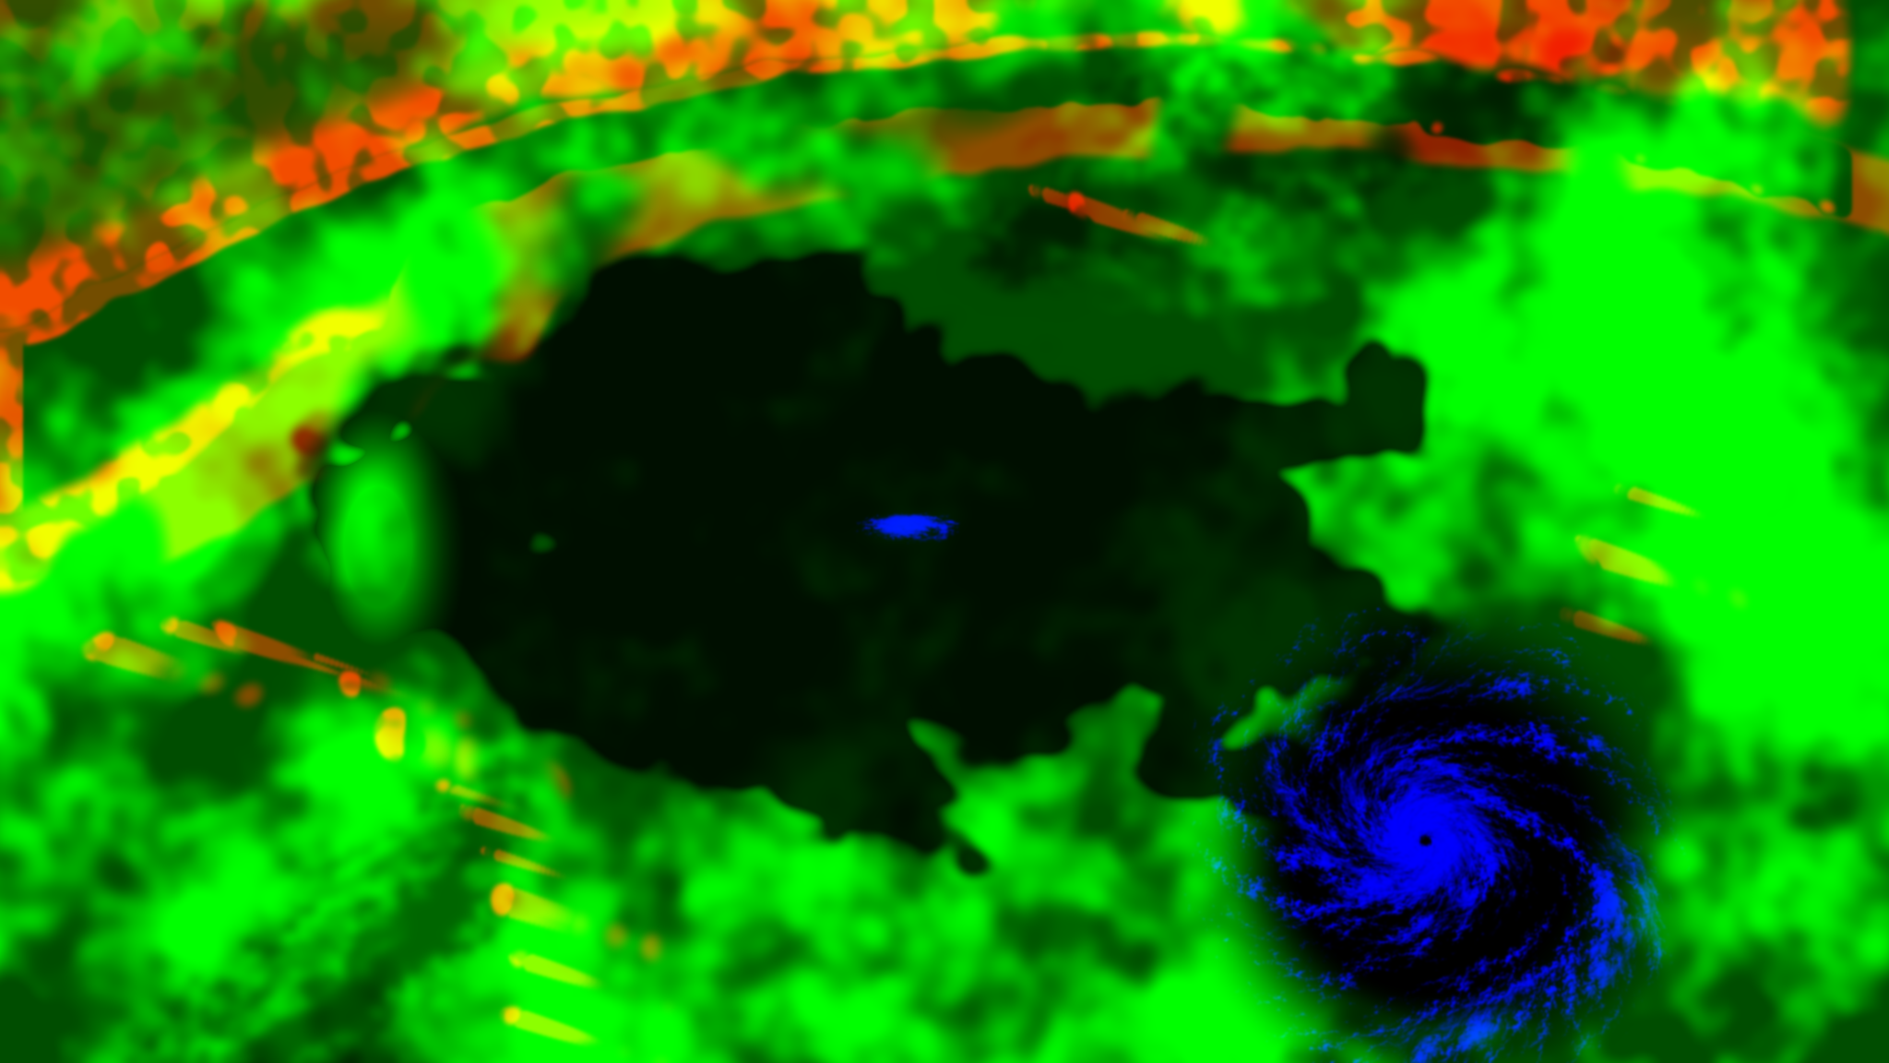
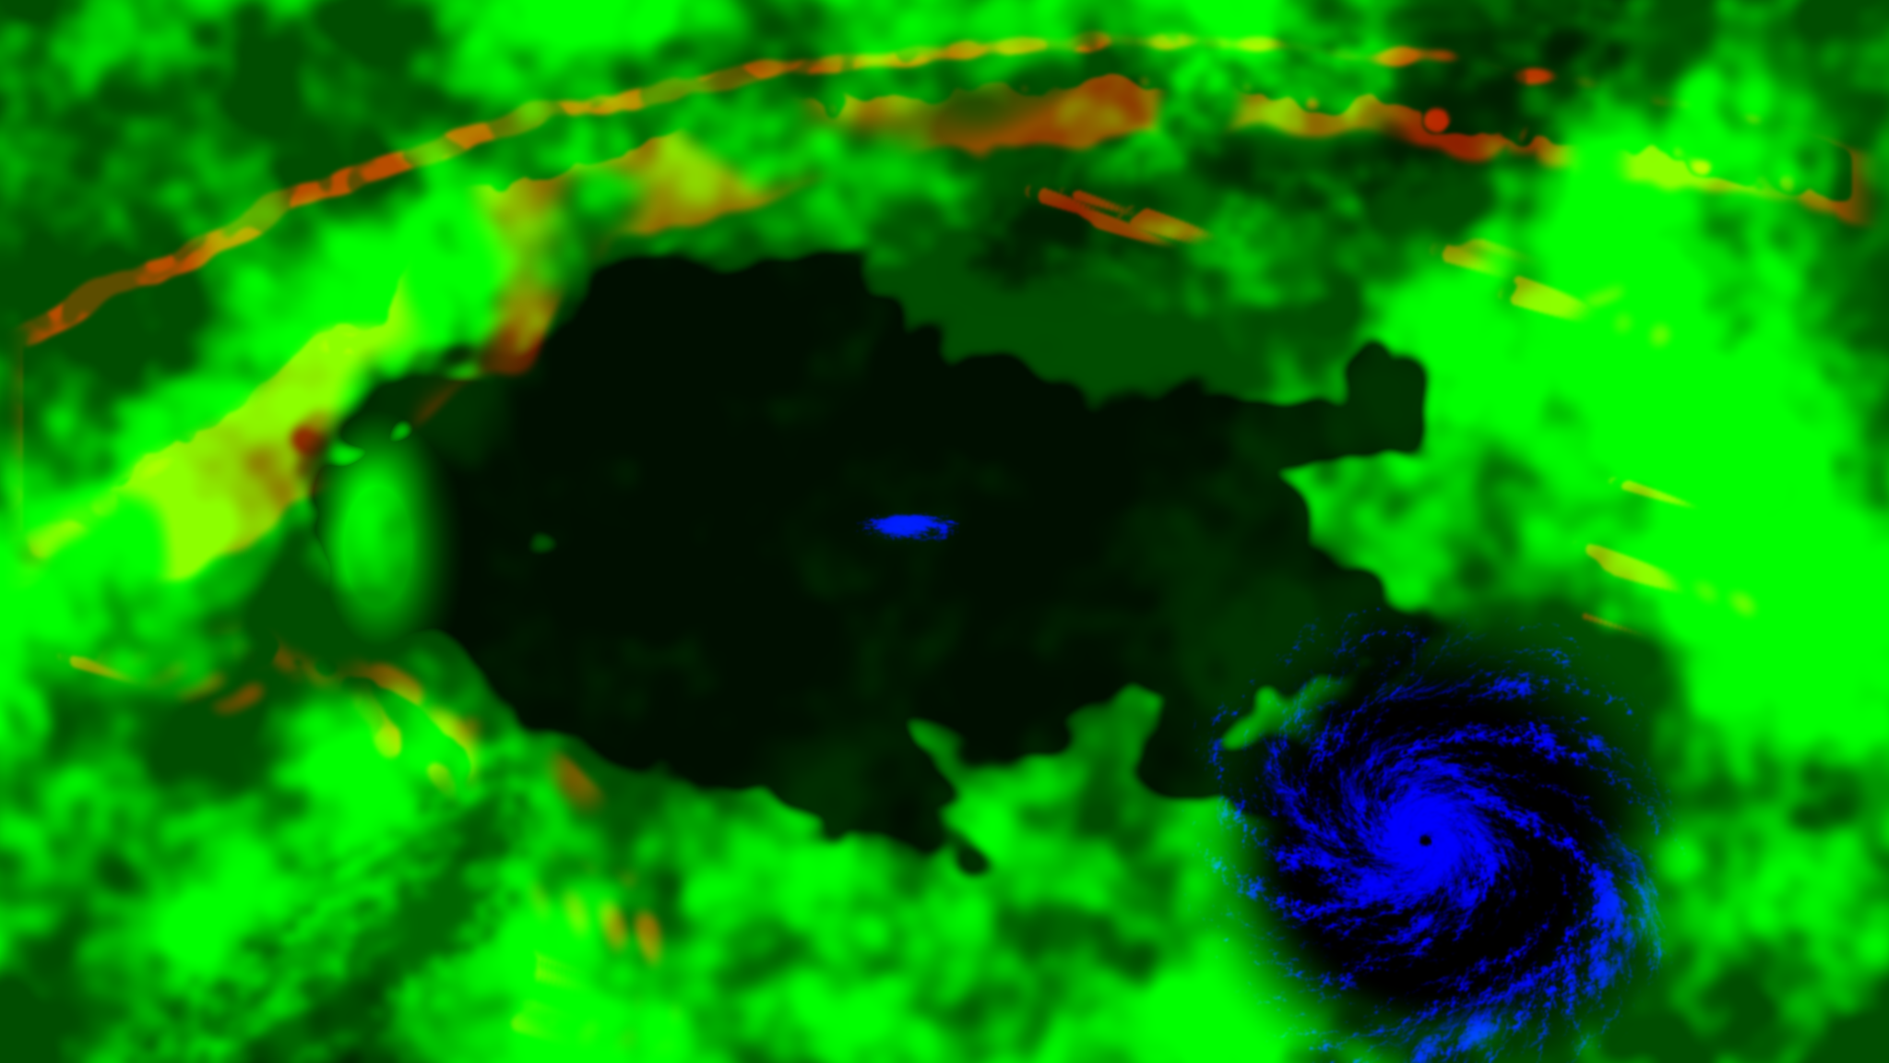
Weather as systems: large patches with a body, the far low and its front, a small storm to the south-west, banks on the far coast, moonlit forms by night

diff --git a/src/places/reveal/shared/weather.ts b/src/places/reveal/shared/weather.ts
@@ -182,6 +182,9 @@ const mat2 LOW_E = mat2(25.0, 10.0, -10.0, 25.0);
 // What other land and the ice hold at the point last asked of lowAmount (sky/cover.png, red): 0 none, about 0.5 a street in
 // the lee of an island or a coast, 1 a bank or a deck.
 float lowHeld = 0.0;
+// The body of the low field at the point last asked of lowDepth, soft, 0 to 1: where its clusters, fronts and decks stand, with
+// none of their cells. It is what the moon shows of the weather by night.
+float lowBody = 0.0;
 float lowAmount(vec2 at, vec2 w) {
   vec3 stands = coverAt(at);
   float lake = smoothstep(100.0, 230.0, length(at - vec2(${f(X(AT.lake.x))}, ${f(Z(AT.lake.y))})));
@@ -242,24 +245,32 @@ float lowDepth(vec2 at) {
   lowGE = windG(gAt, LOW_E / 600.0);
   // (Where the wind of a storm cancels the wind of the sea the air is calm and the map draws a photograph out without end:
   // the sky stands clear there, a dry slot beside the storm.)
+  // (A deck stands whole over such a place: it has no streets to draw out.)
   float calm = dot(windFp, windFp);
-  amount *= smoothstep(0.1, 0.4, calm);
+  float slack = smoothstep(0.1, 0.4, calm);
   lowWeigh = vec3(0.0);
   lowNear = vec2(0.0);
+  lowBody = 0.0;
   if (amount <= 0.02 && lowHeld <= 0.0) return 0.0;
   // (The systems, read first, so most of the open sea, which is clear, costs one read and no more: red how much cloud a
   // system holds, green the veil, blue its kind (0 open cells, 0.5 cumulus in chains, 1 closed cells). The reads are all at
   // places and fineness worked out above: see GRADS.)
   vec3 systems = pic(uWeather, clamp(lowPatch, 0.0, 1.0), lowGPatch).rgb;
-  float cluster = max(amount * min(systems.r * LOW_MUCH, 1.0), lowHeld);
-  float veiled = amount * systems.g;
+  float cluster = max(amount * min(systems.r * LOW_MUCH, 1.0) * mix(slack, 1.0, clamp(2.0 * systems.b - 1.0, 0.0, 1.0)), lowHeld * slack);
+  float veiled = amount * slack * systems.g;
   if (cluster <= 0.004 && veiled <= 0.004) return 0.0;
   float closed = max(clamp(2.0 * systems.b - 1.0, 0.0, 1.0) * (amount * systems.r >= lowHeld ? 1.0 : 0.0), smoothstep(0.62, 0.85, lowHeld));
   float opened = clamp(1.0 - 2.0 * systems.b, 0.0, 1.0) * (1.0 - closed);
   float chain = dot(pic(uMatStreaks, lowUvA, lowGA, 1.0).rgb, vec3(0.3, 0.55, 0.15)) / 0.31;
   // (Cumulus stands in chains down the wind; a front or a deck is cloud from side to side; open cells stand free of the chains.)
-  float density = cluster * mix(smoothstep(0.7, 1.8, chain), 1.0, max(closed, 0.7 * opened));
-  float drawn = 0.45 * veiled * pow(max(chain - 0.9, 0.0), 1.3);
+  // (In the heart of a cluster the chains stand closer.)
+  float density = cluster * mix(smoothstep(0.7 - 0.3 * cluster, 1.8 - 0.5 * cluster, chain), 1.0, max(0.6 * closed, 0.7 * opened));
+  // (Close round a low the map winds a photograph tight: its streaks would be drawn there as curved bars, so the veil stands
+  // back, and the deck at the heart of the low is whole, with no cells to crack it.)
+  float wound = max(smoothstep(1.6, 4.0, calm), 1.0 - slack);
+  lowBody = density;
+  // (Below orbit the veil reads as a smear on the lens: it is thinner there and comes to its full by orbit.)
+  float drawn = 0.45 * veiled * pow(max(chain - 0.9, 0.0), 1.3) * (1.0 - 0.85 * wound) * (0.4 + 0.6 * smoothstep(500.0, 1300.0, uViewKm));
   if (density <= 0.0) return drawn;
   float cell = cloudAt(uMatPopcorn, lowUvB, lowGB, 0.34);
   float puff = cloudAt(uMatSpecks, lowUvC, lowGC, 0.2);
@@ -270,11 +281,15 @@ float lowDepth(vec2 at) {
   lowNear = vec2(1.0 - smoothstep(240.0, 360.0, uViewKm), 1.0 - smoothstep(85.0, 130.0, uViewKm));
   if (lowNear.x > 0.0) lump = mix(1.0, cloudAt(uMatPopcorn, lowUvD, lowGD, 0.34), lowNear.x);
   if (lowNear.y > 0.0) grain = mix(1.0, cloudAt(uMatSpecks, lowUvE, lowGE, 0.2), lowNear.y);
-  // (Open cells are the photograph turned inside out: cloud in the walls between its cumulus, clear air where they stood.)
-  float knots = mix(cell, max(2.0 - 1.3 * cell, 0.0), opened) * (0.45 + 0.55 * puff) * mix(1.0, lump, 0.55) * mix(1.0, grain, 0.4);
+  // (Open cells are the photograph's cumulus hollowed: a wall of cloud round the clear air where each stood, clear between.)
+  float knots = mix(cell, 2.6 * smoothstep(0.25, 0.7, cell) * (1.0 - smoothstep(0.7, 1.5, cell)), opened) * (0.45 + 0.55 * puff) * mix(1.0, lump, 0.55) * mix(1.0, grain, 0.4);
   lowWeigh = vec3(1.0, 0.55, density);
-  // (A deck has a floor of cloud under its cells, cracked where the cells part.)
-  float dense = max(knots * (0.25 + 1.5 * density) - 1.0, 0.0) + 0.7 * closed * cluster * smoothstep(0.35, 0.9, knots);
+  // (A patch, a front or a storm has a body under its cells: the photograph of wind-drawn cloud itself, thick and thin as it
+  // is, cracked where the cells part. It is the start's large soft patch, with tops on it.)
+  // (At the heart of a low, where the wind's map is wound too tight to hold a cell, the deck's cells are read on the ground.)
+  float whole = 0.8;
+  if (wound * closed > 0.0) whole = clamp(0.35 + 0.5 * cloudAt(uMatPopcorn, (at - systemsRun() - uWx * vec2(6.0, 2.0)) / 170.0 + vec2(0.21, 0.63), gAt / 170.0 * lowSoft, 0.34), 0.0, 1.0);
+  float dense = max(knots * (0.25 + 1.5 * density) - 1.0, 0.0) + 1.7 * closed * cluster * mix(mix(pow(max(chain - 0.4, 0.0), 1.3), 1.0, 0.7 * smoothstep(0.9, 0.99, systems.r)) * (0.45 + 0.55 * smoothstep(0.35, 0.9, knots)), 0.6 * whole, wound);
   return 1.5 * dense + drawn;
 }
 

diff --git a/src/places/reveal/sky/index.ts b/src/places/reveal/sky/index.ts
@@ -75,6 +75,7 @@ void main() {
   // (From orbit the field is read half again softer than the pixel: a tuft has form at two pixels and more.)
   lowSoft = mix(1.0, 1.5, smoothstep(500.0, 1300.0, uViewKm));
   vec2 low = lowField(xz);
+  float lowForm = lowBody;
   float flank = dot(lowSlope, toSun);
   float self = clamp(0.5 + 1.25 * flank, 0.0, 1.0);
   float high = highField(up);
@@ -164,7 +165,10 @@ void main() {
     float gone = uTerm.w * (1.0 - smoothstep(-0.1, 0.34, sunHeight(xz)));
     // (By night the low field is seen by the moon, dimmer and thinner than by day: its bodies stay, its thin is lost.)
     float sunk = 1.0 - smoothstep(-0.34, -0.06, sunHeight(xz));
-    float aNight = a * mix(1.0, 0.45 + 0.5 * a, gone) * (1.0 - 0.35 * sunk);
+    float aNight = a * mix(1.0, 0.65 + 0.35 * a, gone) * (1.0 - 0.2 * sunk);
+    // (By night small cumulus spreads out under its lid: the moon shows where a cluster, a front or a deck stands as one
+    // thin pale body, dimmer than the bone, and the cells are bright points in it.)
+    aNight += (1.0 - aNight) * 0.34 * sunk * (1.0 - exp(-1.6 * lowForm));
     // (The thin ice far above is lost against the day; with the camera's eye open it is seen, a veil of fibres that catches the
     // moon and crosses the land on its own wind. It is the same ice as by day, the photograph's own, and it never hides the ground.)
     // (Brought up for the open eye it is eased toward its ceiling, never cut off at it: cut off, every sheet came out one even

diff --git a/assets-src/reveal/sky/make_weather.py b/assets-src/reveal/sky/make_weather.py
@@ -5,7 +5,7 @@ Writes public/assets/reveal/sky/weather.png, 1024 x 576, on the rectangle WEATHE
 (px of the master: x -2600 to 8200, y -1400 to 4675), as the systems stand at the titan frame (10027). They travel slowly with
 the far low; the cloud itself is the photographs, which stream through them faster (see lowDepth in weather.ts).
 
-  red    how much low cloud a system holds: 0 clear sea, about 0.5 broken clusters of cumulus, 1 a front or a deck
+  red    how much low cloud a system holds: 0 clear sea, about 0.5 broken cumulus at the edge of a patch, 1 a front, a storm or a deck
   green  how much thin veil the wind draws out there
   blue   the kind: 0 open cells (rings of cloud round clear air, behind the front), 0.5 cumulus in chains, 1 closed cells
 
@@ -35,6 +35,9 @@ X0, Y0, WIDE, HIGH = -2600.0, -1400.0, 10800.0, 6075.0
 # The far low (LOW2 of weather.ts), the cyclone, the middle of the body, and the way the low wind blows (px of the master, y down).
 LOW2 = (300.0, 900.0)
 CYCLONE = (5557.0, 3007.0)
+LOW3 = (60.0, 3080.0)
+# How many storms the sea holds: 1 the cyclone alone, 2 with the far low and its front, 3 with the small one to the south-west.
+STORMS = int(os.environ.get('STORMS', '3'))
 BODY = (3000.0, 1750.0, 2900.0, 1700.0)
 WIND = (0.9511, 0.3090)
 
@@ -62,18 +65,19 @@ def weather():
     my = Y0 + (ys + 0.5) / H * HIGH
     turn = -np.degrees(np.arctan2(WIND[1], WIND[0]))
 
-    # Cumulus of the open sea: clusters 150 to 600 km across, longer down the wind, with lanes of clear sea between.
+    # The open sea holds its cloud in large patches, a few hundred km across and longer down the wind, with clear sea
+    # between them: each is a deck of closed cells, thick and thin, that breaks into cumulus at its edge. No even layer.
     wide = noise(rng, 30.0, 16.0, turn)
     mid = noise(rng, 11.0, 6.0, turn)
     small = noise(rng, 4.0, 2.5, turn)
-    field = 0.5 * wide + 0.33 * mid + 0.17 * small
-    red = smooth(0.46, 0.6, field)
-    kind = np.full((H, W), 0.5, np.float32)
-    # A few closed decks where a cluster is at its fullest.
-    # (Few, and none near the body: it is the subject. The body lies about (3000, 1750), 2900 by 1700 px of the master.)
-    clear_of_body = smooth(1.15, 1.6, np.hypot((mx - BODY[0]) / BODY[2], (my - BODY[1]) / BODY[3]))
-    kind = np.maximum(kind, 0.5 + 0.5 * smooth(0.65, 0.72, field) * smooth(0.52, 0.64, wide) * clear_of_body)
-    green = 0.9 * smooth(0.5, 0.66, 0.6 * noise(rng, 22.0, 9.0, turn) + 0.4 * noise(rng, 7.0, 3.0, turn))
+    field = 0.6 * wide + 0.4 * mid
+    # (None near the body: it is the subject. The body lies about (3000, 1750), 2900 by 1700 px of the master.)
+    clear_of_body = 0.45 + 0.55 * smooth(0.95, 1.3, np.hypot((mx - BODY[0]) / BODY[2], (my - BODY[1]) / BODY[3]))
+    patch = smooth(0.55, 0.63, field) * clear_of_body
+    fringe = smooth(0.48, 0.55, field) * smooth(0.42, 0.6, small)
+    red = np.maximum(patch * (0.62 + 0.38 * smooth(0.3, 0.7, small)), 0.5 * fringe)
+    kind = 0.5 + 0.5 * smooth(0.25, 0.75, patch)
+    green = 0.8 * smooth(0.45, 0.55, field) * smooth(0.4, 0.7, noise(rng, 7.0, 3.0, turn))
 
     # The far low and its front: a comma. The band winds out of the low as the low wind winds into it (weather.ts: the turn
     # falls by 2 for each e-fold of the distance), wide at the head and drawn thin down the tail, which ends in clear air.
@@ -83,21 +87,36 @@ def weather():
     # (How far round the arm a point is: the arm is the curve th + 2 ln r = const; s runs 0 at the head to 1 at the tail's end.)
     phase = th + 2.0 * np.log(r / 95.0) - np.radians(47.0)
     off = (phase + np.pi) % (2.0 * np.pi) - np.pi
-    along = np.log(r / 95.0) / np.log(1250.0 / 95.0)
-    width = 0.17 + 55.0 / r
+    along = np.log(r / 300.0) / np.log(1500.0 / 300.0)
+    width = 0.15 + 40.0 / r
     ragged = 1.2 * width * (noise(rng, 6.0, 6.0) - 0.5)
-    band = np.exp(-((off + ragged) / width) ** 2) * smooth(-0.25, 0.1, along) * (1.0 - smooth(0.8, 1.05, along))
-    head = np.exp(-(r / 210.0) ** 2)
-    front = np.clip(np.maximum(band, 0.9 * head), 0.0, 1.0)
+    band = np.exp(-((off + ragged) / width) ** 2) * smooth(-0.3, 0.05, along) * (1.0 - smooth(0.7, 1.05, along))
+    # (The head is one whole deck over the low and a little down the wind of it: with the tail it is a comma, never a ring.)
+    head = np.exp(-(np.hypot(dx - 60.0, dy + 40.0) / 250.0) ** 2)
+    front = 0.88 * np.clip(np.maximum(band, 0.9 * head), 0.0, 1.0)
     # (Ahead of the front, on the inside of the arm, the air is dry: a clear slot. Behind it, outside, cold air and open cells.)
     ahead = np.exp(-((off + 2.0 * width) / (1.0 * width)) ** 2) * smooth(0.1, 0.4, along) * (1.0 - smooth(0.85, 1.1, along))
     behind = np.exp(-((off - 3.2 * width) / (2.2 * width)) ** 2) * smooth(0.25, 0.5, along) * (1.0 - smooth(0.9, 1.2, along))
+    comma = 1.0 if STORMS >= 2 else 0.0
+    front, ahead, behind, head_veil = front * comma, ahead * comma, behind * comma, 0.9 * np.exp(-(r / 420.0) ** 2) * comma
     red = red * (1.0 - 0.9 * ahead)
-    red = np.maximum(red, 0.6 * behind * (0.6 + 0.4 * mid))
+    red = np.maximum(red, 0.5 * behind * (0.5 + 0.5 * smooth(0.35, 0.6, mid)))
     kind = kind * (1.0 - behind)
     red = np.maximum(red, front)
     kind = np.maximum(kind, front)
-    green = np.maximum(green * (1.0 - 0.8 * ahead), 0.9 * np.exp(-(r / 420.0) ** 2))
+    green = np.maximum(green * (1.0 - 0.8 * ahead), head_veil)
+
+    # A third storm, small, far out in the sea to the south-west: two arms wound the way the cyclone's are, round a whole heart.
+    if STORMS >= 3:
+        dx3, dy3 = mx - LOW3[0], my - LOW3[1]
+        r3 = np.maximum(np.hypot(dx3, dy3), 1.0)
+        wound = np.arctan2(dy3, dx3) + 2.0 * np.log(r3 / 40.0) + 1.0 * (mid - 0.5)
+        arms = smooth(0.15, 0.75, np.cos(2.0 * wound) + 0.5 * (noise(rng, 5.0, 5.0) - 0.5))
+        storm = np.maximum(np.exp(-(r3 / 150.0) ** 2), arms * np.exp(-(r3 / 430.0) ** 4)) * (1.0 - smooth(460.0, 640.0, r3))
+        moat = np.exp(-(r3 / 700.0) ** 4)
+        red = np.maximum(red * (1.0 - 0.95 * moat), storm)
+        kind = np.maximum(kind * (1.0 - moat) + 0.5 * moat, storm)
+        green = green * (1.0 - 0.7 * moat)
 
     # Nothing of this map stands over the cyclone's disc, nor crowds it: clear water round it.
     away = np.hypot(mx - CYCLONE[0], my - CYCLONE[1])
@@ -107,6 +126,10 @@ def weather():
 
     out = np.stack([red, green, kind], -1)
     out = ndimage.gaussian_filter(out, (1.6, 1.6, 0.0))
+    # (Past its border the map is read at its border: there it is one even thin field of cumulus, so nothing is drawn out in bars.)
+    inside = np.minimum.reduce([xs, W - 1.0 - xs, ys, H - 1.0 - ys])
+    rim = smooth(2.0, 40.0, inside)[..., None]
+    out = np.array([0.4, 0.25, 0.5], np.float32) * (1.0 - rim) + out * rim
     Image.fromarray((np.clip(out, 0.0, 1.0) * 255.0 + 0.5).astype(np.uint8), 'RGB').save(os.path.join(PUB, 'weather.png'), optimize=True)
     print('weather.png', os.path.getsize(os.path.join(PUB, 'weather.png')))
 
@@ -148,7 +171,9 @@ def held():
     deck = smooth(0.25, 0.7, edge) * (1.0 - 0.8 * smooth(0.8, 0.99, soft(ice, 170.0))) * (0.45 + 0.55 * smooth(0.3, 0.6, lumps))
     # Banks on the coast that faces the wind: where land lies just down the wind of sea or ice.
     faces = np.clip(soft(land, 25.0) - shifted(soft(land, 25.0), 90.0), 0.0, 1.0)
-    banks = smooth(0.12, 0.45, faces) * (0.5 + 0.5 * smooth(0.35, 0.6, lumps))
+    # (Of the far coast only: an island's cloud is small and broken, below.)
+    wide_land = smooth(0.15, 0.4, soft(land, 150.0))
+    banks = smooth(0.12, 0.45, faces) * (0.5 + 0.5 * smooth(0.35, 0.6, lumps)) * wide_land
     # In the lee of the far coast the land is clear, and the sea beyond it grows streets with the fetch.
     lee = np.zeros_like(land)
     for km in (150.0, 300.0, 450.0, 600.0):
@@ -161,11 +186,13 @@ def held():
     for km in range(20, 340, 20):
         wake = np.maximum(wake, shifted(soft(isles, 8.0), float(km) + 25.0) * (1.0 - km / 340.0))
     wake = 0.55 * smooth(0.05, 0.3, wake)
-    red = np.maximum.reduce([0.95 * deck, 0.9 * banks, streets, 0.6 * cap * (0.4 + 0.6 * smooth(0.4, 0.6, lumps)), wake])
+    red = np.maximum.reduce([0.8 * deck, 0.72 * banks, streets, 0.3 * cap * smooth(0.4, 0.6, lumps), wake])
     # (Clear over the cyclone, as the map of the systems is.)
     ys, xs = np.mgrid[0:CH, 0:CW].astype(np.float32)
     away = np.hypot(CX0 + (xs + 0.5) * px - CYCLONE[0], CY0 + (ys + 0.5) * px - CYCLONE[1])
     red *= smooth(850.0, 1450.0, away)
+    # (Past its border the cover is read at its border: nothing is held there.)
+    red *= smooth(2.0, 60.0, np.minimum.reduce([xs, CW - 1.0 - xs, ys, CH - 1.0 - ys]))
     cover[..., 0] = (np.clip(ndimage.gaussian_filter(red, 1.5), 0.0, 1.0) * 255.0 + 0.5).astype(np.uint8)
     Image.fromarray(cover, 'RGB').save(path, optimize=True)
     print('cover.png', os.path.getsize(path))

diff --git a/assets-src/reveal/sky/RECIPE.md b/assets-src/reveal/sky/RECIPE.md
@@ -39,25 +39,28 @@ y -820 to 3961.25). Where the weather stands:
 ## `public/assets/reveal/sky/weather.png`
 
 Made by: `assets-src/reveal/sky/make_weather.py` (Python 3 with numpy, scipy and Pillow), committed here
-From: nothing for `weather.png` (seeded noise and the places of the far low and the cyclone); for the red of `cover.png` the ocean builder's mask of other land and ice, `assets-src/reveal/land/ocean/ocean-mask.png`, read and never copied
-Prompt or command: `python3 assets-src/reveal/sky/make_weather.py [path of the mask]`, from the root of the repo, after `make_cover.py`; no model and no prompt; the only noise is of fixed seeds
-Takes: 4 made (an even field; clusters with lanes; the comma of the far low with its dry slot and open cells; the same with the decks kept away from the body and the islands' cloud set upwind and broken); the fourth is kept
-Why this one: the sea reads as clusters of cumulus with clear lanes between and the body stays clear
+From: nothing for `weather.png` (seeded noise and the places of the storms); for the red of `cover.png` the ocean builder's mask of other land and ice, `assets-src/reveal/land/ocean/ocean-mask.png`, read and never copied
+Prompt or command: `python3 assets-src/reveal/sky/make_weather.py`, from the root of the repo, after `make_cover.py`; `STORMS=1`, `2` or `3` before it sets how many storms the sea holds (3 is what is committed); no model and no prompt; the only noise is of fixed seeds
+Takes: 9 made (an even field of small cumulus; clusters with lanes; the comma of the far low with its dry slot and open cells; decks kept away from the body; then, after the lead's word that small marks read as an even speckle at 960 x 540, large patches with clear sea between; fewer of them; a third small storm; its arms left whole; the banks of the far coast thinner); the ninth is kept
+Why this one: at 960 x 540 the sea reads as large patches, a front and storms with clear water between, and the body stays clear
 Date: 2026-11-28
 
 1024 x 576, on the rectangle `WEATHER_RECT` of `src/places/reveal/shared/weather.ts` (px of the master: x -2600 to 8200, y -1400 to 4675).
-The weather systems as they stand at the titan frame; they travel slowly with the far low and the cloud streams through them faster.
+The weather systems as they stand at the titan frame; they travel slowly down the wind and the cloud streams through them faster.
 Used by: `src/places/reveal/shared/weather.ts` (`lowDepth`), read by the part `reveal/cloud` and by the shade on the land.
 
-- red: how much low cloud a system holds: 0 clear sea, about 0.5 broken clusters of cumulus, 1 a front or a deck.
+- red: how much low cloud a system holds: 0 clear sea, about 0.5 broken cumulus at the edge of a patch, 1 a front, a storm or a deck.
 - green: how much thin veil the wind draws out there.
-- blue: the kind: 0 open cells behind the front, 0.5 cumulus in chains, 1 closed cells.
+- blue: the kind: 0 open cells behind the front, 0.5 cumulus in chains, 1 a patch with a body (closed cells).
+
+The systems: large patches over the open sea, few near the body; the far low (`LOW2`, px 300, 900) with its front, a comma; a small
+storm to the south-west (px 60, 3080) with two arms round a whole heart; clear water 850 to 1450 px round the cyclone.
 
 The same script sets the red of `cover.png` (above); its green and blue are unchanged to the last bit.
 
 ### What is read as data
 
-- `assets-src/reveal/land/ocean/ocean-mask.png` (the ocean builder's, from the branch `agent/p10-reveal-ocean`): red other land, green ice.
+- `assets-src/reveal/land/ocean/ocean-mask.png` (the ocean builder's): red other land, green ice.
 
 ## `public/assets/reveal/sky/banks.png`
 

diff --git a/assets-src/reveal/ROWS-reveal_weather_builder_n30.md b/assets-src/reveal/ROWS-reveal_weather_builder_n30.md
@@ -2,5 +2,5 @@
 
 | file | what | tool or model | prompt | take | date |
 | --- | --- | --- | --- | --- | --- |
-| public/assets/reveal/sky/weather.png | The weather systems of the open sea on the rectangle WEATHER_RECT: red how much low cloud, green how much veil, blue the kind (open cells, cumulus in chains, closed cells). 1024 x 576, 0.5 MB. | assets-src/reveal/sky/make_weather.py (Python 3, numpy, scipy, Pillow), seeded noise | none: computed, no model | 4 | 2026-11-28 |
-| public/assets/reveal/sky/cover.png | The red channel made again: the cloud that other land and the ice hold (deck over the ice edge, banks on the windward coast, lee streets, cloud against the islands and their wakes). Green and blue unchanged to the last bit. 2048 x 1152, 0.9 MB. | assets-src/reveal/sky/make_weather.py, from the ocean builder's mask assets-src/reveal/land/ocean/ocean-mask.png (read, not copied) | none: computed, no model | 4 | 2026-11-28 |
+| public/assets/reveal/sky/weather.png | The weather systems of the open sea on the rectangle WEATHER_RECT (large patches, the far low and its front, a small storm to the south-west): red how much low cloud, green how much veil, blue the kind (open cells, cumulus in chains, a patch with a body). 1024 x 576, 0.5 MB. | assets-src/reveal/sky/make_weather.py (Python 3, numpy, scipy, Pillow), seeded noise | none: computed, no model | 9 | 2026-11-28 |
+| public/assets/reveal/sky/cover.png | The red channel made again: the cloud that other land and the ice hold (deck over the ice edge, banks on the windward coast, lee streets, cloud against the islands and their wakes). Green and blue unchanged to the last bit. 2048 x 1152, 0.8 MB. | assets-src/reveal/sky/make_weather.py, from the ocean builder's mask assets-src/reveal/land/ocean/ocean-mask.png (read, not copied) | none: computed, no model | 9 | 2026-11-28 |
